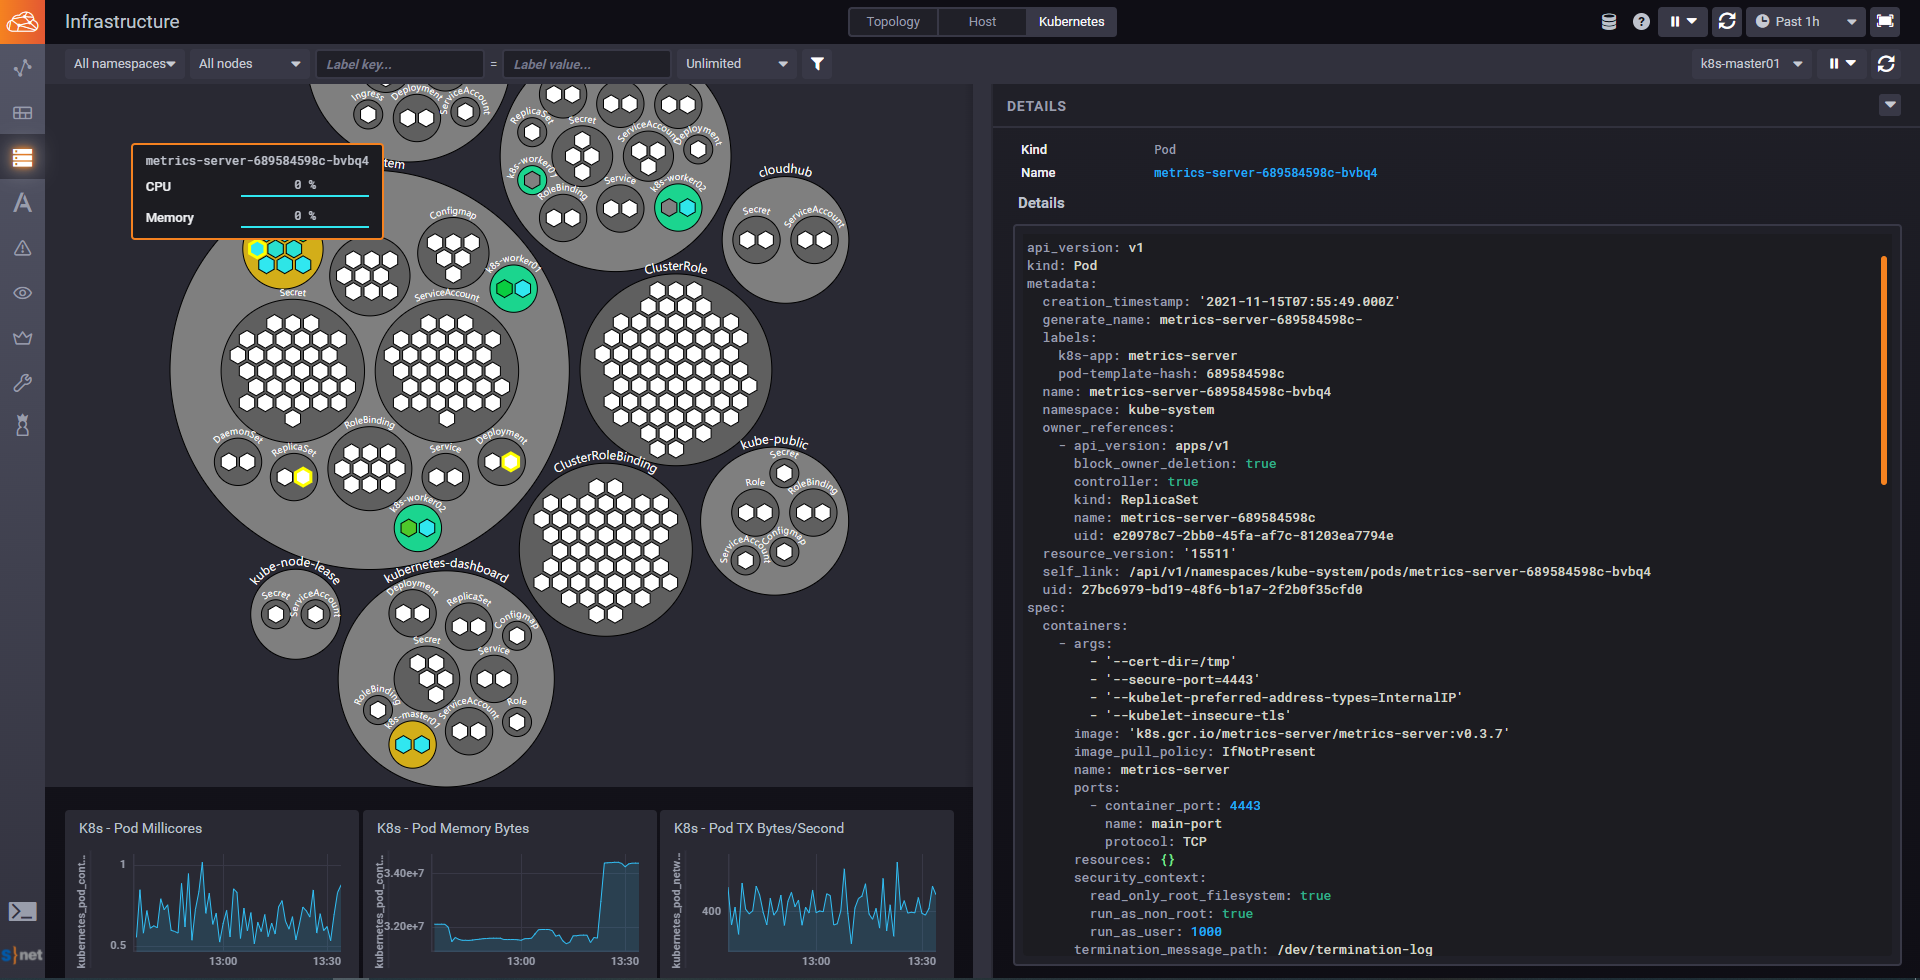
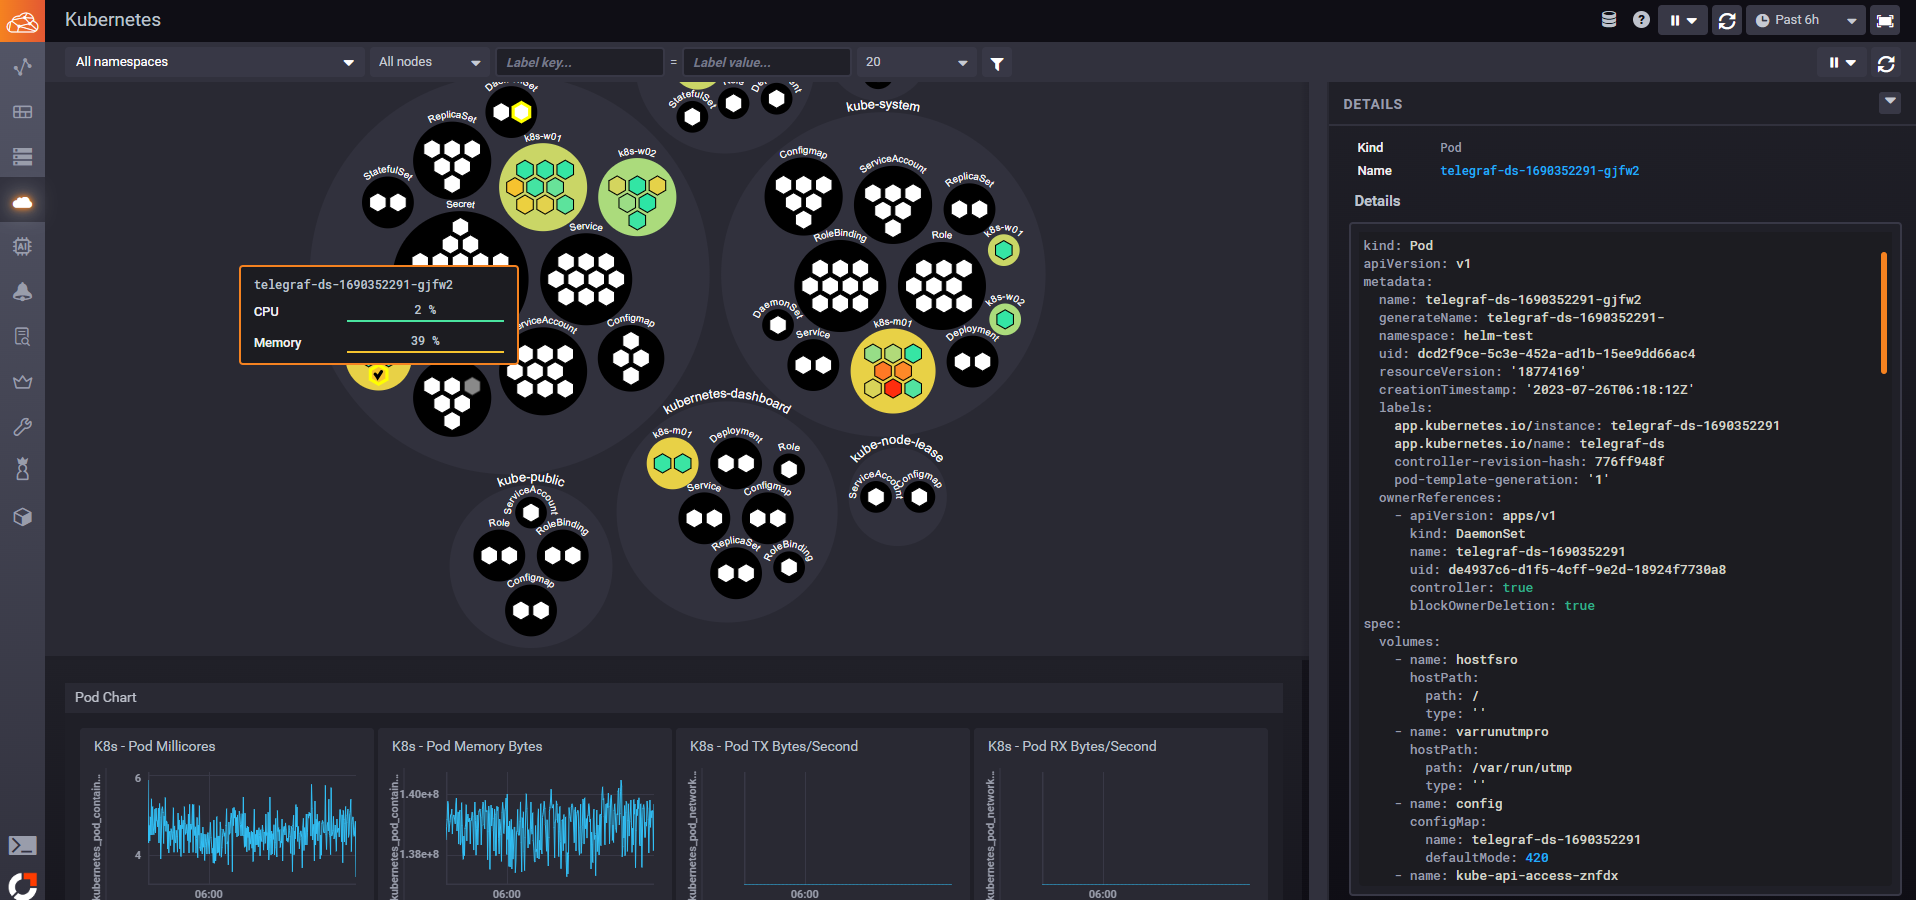
docs: update README.md

diff --git a/README.md b/README.md
@@ -94,6 +94,13 @@ Infrastructure Topology Map authoring feature by user group.
 </p>
 <br>
 
+## Log Analysis
+### Morphology-based indexing for log search and time-series visualization
+<p align="center">
+  <img src="./docs/images/log-analysis.png"/>
+</p>
+<br>
+
 ## Change log
 
 You could know the changelog by versions via the follows.<br>
@@ -147,7 +154,7 @@ Version >= v1.3.0: [Projects(Newly)](https://github.com/snetsystems?tab=projects
 
 ### Preparing dependencies
 
-- CloudHub works with **go 1.21.x**, **node 12.x ~ node 14.x**, and **yarn 1.15.x ~ 1.22.x**. Thus, you have to install that according to each offcial guide.<br>
+- CloudHub works with **go 1.21.x**, **node 14.x**, and **yarn 1.15.x ~ 1.22.x**. Thus, you have to install that according to each offcial guide.<br>
   - Yarn install example:
     ```bash
     $ npm install --global yarn@1.22.18
